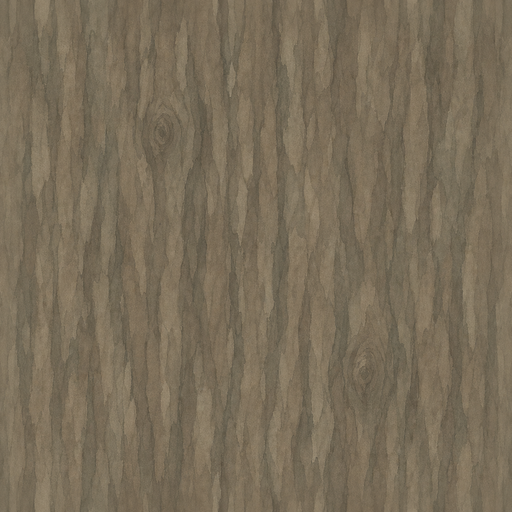
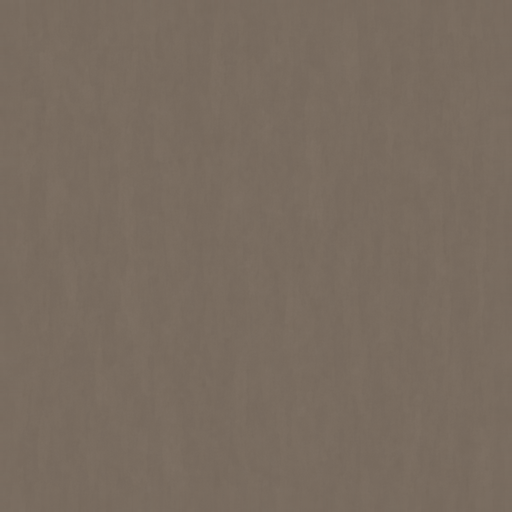
trees: matte foliage bands, tall archetype, flat gouache bark
- softened band edges, glow reduced to sparse warm accent (was reading
  metallic/specular)
- 30% of trees are tall poplar-like: 16-26m, steep branches, narrow crown
- minimum tree height 12m (no runts); colliders track real fork height
- bark regenerated: near-flat single-brown wash, seamless

diff --git a/src/world.js b/src/world.js
@@ -116,7 +116,11 @@ export function buildWorld(scene, heightAt, worldSeed) {
       if ((x - sx) * (x - sx) + (z - sz) * (z - sz) < 49) return;
     }
     treeSpots.push([x, z]);
-    const h = forcedH || 9 + rand() * 10;
+    // Two archetypes: wide dome oaks and taller, narrower poplar-like trees.
+    // No runts — minimum height is a real tree.
+    const tall = !forcedH && rand() < 0.3;
+    const h = forcedH || (tall ? 16 + rand() * 10 : 12 + rand() * 8);
+    const spread = tall ? 0.7 : 1; // tall trees hold their canopy tight
     const blossom = !forcedH && rand() < 0.07;
     const mats = blossom ? blossomMats : greenMats;
     const matA = mats[Math.floor(rand() * mats.length)];
@@ -176,7 +180,7 @@ export function buildWorld(scene, heightAt, worldSeed) {
 
     // Trunk: leans a little, tapers, splits high (fly under the canopy).
     const trunkDir = new THREE.Vector3((rand() - 0.5) * 0.2, 1, (rand() - 0.5) * 0.2).normalize();
-    const trunkLen = h * 0.42;
+    const trunkLen = h * (tall ? 0.52 : 0.42);
     const top = trunkDir.clone().multiplyScalar(trunkLen);
     limb(new THREE.Vector3(0, 0, 0), top, h * 0.038, h * 0.022);
 
@@ -188,7 +192,7 @@ export function buildWorld(scene, heightAt, worldSeed) {
     for (let i = 0; i < mainCount; i++) {
       const hf = i / Math.max(1, mainCount - 1); // 0 = lowest, 1 = topmost
       const az = az0 + i * GOLDEN + (rand() - 0.5) * 0.6;
-      const tilt = 1.05 - hf * 0.55 + (rand() - 0.5) * 0.22;
+      const tilt = (1.05 - hf * 0.55 + (rand() - 0.5) * 0.22) * (tall ? 0.6 : 1);
       const dir = new THREE.Vector3(
         Math.sin(tilt) * Math.cos(az),
         Math.cos(tilt),
@@ -196,11 +200,11 @@ export function buildWorld(scene, heightAt, worldSeed) {
       ).addScaledVector(trunkDir, 0.25).normalize();
 
       const start = trunkDir.clone().multiplyScalar(trunkLen * (0.45 + hf * 0.5 + rand() * 0.06));
-      const len = h * (0.26 - hf * 0.09) * (0.85 + rand() * 0.3);
+      const len = h * (0.26 - hf * 0.09) * (0.85 + rand() * 0.3) * spread;
       const end = start.clone().addScaledVector(dir, len);
       limb(start, end, h * 0.016, h * 0.008);
       // Pull tip clusters toward the canopy axis so lobes mound into a dome.
-      cluster(end.clone().addScaledVector(dir, h * 0.03).lerp(top, 0.15), h * (0.17 + rand() * 0.06), true);
+      cluster(end.clone().addScaledVector(dir, h * 0.03).lerp(top, 0.15), h * (0.17 + rand() * 0.06) * spread, true);
 
       const twigs = 1 + Math.floor(rand() * 2);
       for (let t = 0; t < twigs; t++) {
@@ -210,13 +214,15 @@ export function buildWorld(scene, heightAt, worldSeed) {
         const tstart = start.clone().addScaledVector(dir, len * (0.45 + rand() * 0.35));
         const tend = tstart.clone().addScaledVector(tdir, len * (0.45 + rand() * 0.25));
         limb(tstart, tend, h * 0.007, h * 0.004);
-        cluster(tend.clone().addScaledVector(tdir, h * 0.02), h * (0.10 + rand() * 0.04), false);
+        cluster(tend.clone().addScaledVector(tdir, h * 0.02), h * (0.10 + rand() * 0.04) * spread, false);
       }
     }
     // Leader cluster crowning the trunk, plus an interior fill mass so the
     // canopy reads as one dome with lobes, not satellite pompoms.
-    cluster(top.clone().add(new THREE.Vector3(0, h * 0.07, 0)), h * (0.18 + rand() * 0.05), true);
-    cluster(top.clone().add(new THREE.Vector3(0, h * 0.16, 0)), h * (0.2 + rand() * 0.05), true);
+    cluster(top.clone().add(new THREE.Vector3(0, h * 0.07, 0)), h * (0.18 + rand() * 0.05) * spread, true);
+    cluster(top.clone().add(new THREE.Vector3(0, h * 0.16, 0)), h * (0.2 + rand() * 0.05) * spread, true);
+    // Tall trees stack one more cluster up the leader for a pointed crown.
+    if (tall) cluster(top.clone().add(new THREE.Vector3(0, h * 0.28, 0)), h * 0.15, true);
 
     // Two detail levels sharing the wood geometry; puff detail only near by.
     const woodGeo = mergeGeometries(limbParts);
@@ -247,7 +253,7 @@ export function buildWorld(scene, heightAt, worldSeed) {
     scene.add(tree);
 
     // Main trunk collider: vertical cylinder from the ground to the fork.
-    colliders.push({ x, z, r: Math.max(0.28, h * 0.042), top: y + h * 0.46 });
+    colliders.push({ x, z, r: Math.max(0.28, h * 0.042), top: y + trunkLen * 1.08 });
   }
 
   // Parkland: denser groves plus plenty of loners — a nature reserve, not a

diff --git a/src/foliageMaterial.js b/src/foliageMaterial.js
@@ -63,12 +63,14 @@ const fragmentShader = /* glsl */ `
     float ndl = dot(n, uSunDir) * 0.5 + 0.5;
     // Brush wobble: two noise octaves shove the band thresholds around.
     float w = vnoise(vWorld * 0.85) * 0.65 + vnoise(vWorld * 2.3) * 0.35;
-    float t = clamp(ndl + (w - 0.5) * 0.42, 0.0, 1.0);
+    float t = clamp(ndl + (w - 0.5) * 0.34, 0.0, 1.0);
 
+    // Matte paint: soft-edged bands, and the glow is a sparse warm accent,
+    // not a specular hotspot wrapping every puff top.
     vec3 col = uShadow;
-    col = mix(col, uMid, smoothstep(0.40, 0.46, t));
-    col = mix(col, uLight, smoothstep(0.68, 0.74, t));
-    col = mix(col, uGlow, smoothstep(0.895, 0.925, t)); // sunlit leaf dabs
+    col = mix(col, uMid, smoothstep(0.38, 0.48, t));
+    col = mix(col, uLight, smoothstep(0.66, 0.78, t));
+    col = mix(col, uGlow, smoothstep(0.93, 0.965, t) * 0.5);
     col *= vColor; // canopy-depth shading baked per puff
 
     float fog = smoothstep(uFogNear, uFogFar, vFogDepth);